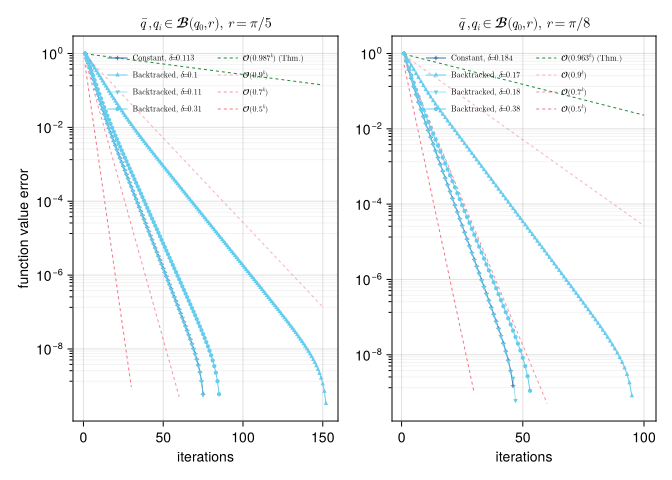
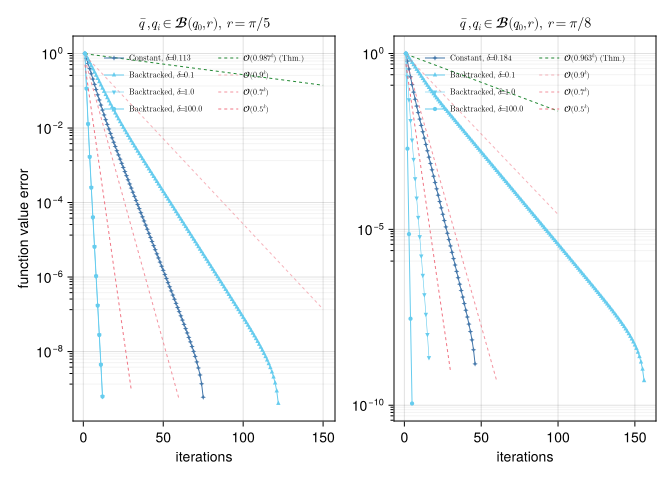
Update md for sphere

diff --git a/docs/src/examples/CRPG-Sphere-Example.md b/docs/src/examples/CRPG-Sphere-Example.md
@@ -126,31 +126,20 @@ function get_const_stepsize(radius, τ)
     vals = [min(get_λ_δ(α1, α2, αg, δ),get_ζ_δ(δ)/Lg) for δ in 0.0:0.001:0.4]
     λ_const, max_idx = findmax(vals)
     return λ_const, δ_grid[max_idx]
-end 
-#
-function get_initial_stepsize(radius, τ, δ = 1e-8)
-    # α1 ≤ h(p) ≤ α2 ∀p ∈ B(anchor, radius)
-    α1 = 0.0
-    α2 = τ * 2 * radius
-    # ||grad_g(p)|| ≤ αg ∀p ∈ B(anchor, radius)
-    αg = 2 * radius 
-    # Compute s for backtracking: we need s < λ_δ
-    s = get_λ_δ(α1, α2, αg, δ)
-    return s 
 end
 ```
 
-    get_initial_stepsize (generic function with 2 methods)
+    get_const_stepsize (generic function with 1 method)
 
 Since the stepsizes are independent of the dimension, we define them here, in conjunction with the parameter $\delta$ used for the backtracking
 
 ``` julia
 λ_const, δ = get_const_stepsize(radius, τ)
-δ_bt = 0.2
-λ_init = get_initial_stepsize(radius, τ, δ_bt)
+δ_bt = 1.0
+λ_init = 10 * λ_const
 ```
 
-    0.1416160732896968
+    1.4758225181520177
 
 Before running the experiments, we initialize data collection functions that we will use later
 
@@ -299,19 +288,19 @@ The first table showcases the algorithm run with a constant stepsize…
 
 | **Dimension** | **Stepsize** |  **Time** | **Iterations** | **Objective** |
 |--------------:|-------------:|----------:|---------------:|--------------:|
-|         100.0 |     0.147582 | 0.0218097 |           57.5 |     0.0775637 |
-|         500.0 |     0.147582 | 0.0991153 |           54.7 |     0.0632621 |
-|        1000.0 |     0.147582 |  0.188338 |           61.8 |     0.0754969 |
-|        5000.0 |     0.147582 |  0.525201 |           43.9 |     0.0618121 |
+|         100.0 |     0.147582 | 0.0231786 |           57.5 |     0.0775637 |
+|         500.0 |     0.147582 |  0.102482 |           54.7 |     0.0632621 |
+|        1000.0 |     0.147582 |  0.196127 |           61.8 |     0.0754969 |
+|        5000.0 |     0.147582 |  0.534626 |           43.9 |     0.0618121 |
 
 … while the second table showcases the algorithm run with a backtracked stepsize
 
 | **Dimension** | **Stepsize** |  **Time** | **Iterations** | **Objective** |
 |--------------:|-------------:|----------:|---------------:|--------------:|
-|         100.0 |     0.141616 | 0.0302608 |           60.2 |     0.0775637 |
-|         500.0 |     0.141616 |  0.129029 |           57.0 |     0.0632621 |
-|        1000.0 |     0.141616 |   0.25233 |           64.7 |     0.0754969 |
-|        5000.0 |     0.141616 |  0.755547 |           45.8 |     0.0618121 |
+|         100.0 |      1.47582 | 0.0130627 |           21.1 |     0.0775637 |
+|         500.0 |      1.47582 | 0.0538948 |           19.9 |     0.0632621 |
+|        1000.0 |      1.47582 |  0.109934 |           22.4 |     0.0754969 |
+|        5000.0 |      1.47582 |  0.335534 |           16.4 |     0.0618121 |
 
 ## Test with different parameters
 
@@ -369,6 +358,9 @@ for radius in radii
     prox = get_prox(q_bar, τ)
     # constant stepsize 
     λ_const, δ_opt = get_const_stepsize(radius, τ)
+    δs_bt = [0.1, 1.0, 100.0]
+    λ_init = 10*λ_const
+
     rec_const = proximal_gradient_method(S, f, g, grad_g, start;
         prox_nonsmooth=prox, 
         stepsize=ConstantLength(λ_const),
@@ -386,10 +378,8 @@ for radius in radii
     results[(radius, :CONST, δ_opt)] = err_const
 
     # Backtracking
-    δs_bt = [round(δ_opt, digits=2) - 0.01, round(δ_opt, digits=2), round(δ_opt, digits=2) + 0.2]
 
     for δ_bt in δs_bt
-        λ_init = get_initial_stepsize(radius, τ, δ_bt)
         rec_bt = proximal_gradient_method(S, f, g, grad_g, start;
             prox_nonsmooth=prox, 
             stepsize=ProximalGradientMethodBacktracking(;
@@ -439,7 +429,7 @@ function plot_sphere_results(
             df_const  = df_02_const,
             df_bt     = df_02_bt,
             c_delta   = "delta0.113",
-            bt_deltas = ("delta0.1",  "delta0.11", "delta0.31"),
+            bt_deltas = ("delta0.1",  "delta1.0", "delta100.0"),
             thm_rate  = 0.987,
             thm_xend  = 150,
             ref_xends = (150, 60, 30),
@@ -449,7 +439,7 @@ function plot_sphere_results(
             df_const  = df_0125_const,
             df_bt     = df_0125_bt,
             c_delta   = "delta0.184",
-            bt_deltas = ("delta0.17", "delta0.18", "delta0.38"),
+            bt_deltas = ("delta0.1", "delta1.0", "delta100.0"),
             thm_rate  = 0.963,
             thm_xend  = 100,
             ref_xends = (100, 60, 30),
@@ -530,36 +520,38 @@ This tutorial is cached. It was last run on the following package versions.
     Status `~/Repositories/Julia/ManoptExamples.jl/examples/Project.toml`
       [6e4b80f9] BenchmarkTools v1.8.0
       [336ed68f] CSV v0.10.16
-    ⌃ [13f3f980] CairoMakie v0.15.11
+      [13f3f980] CairoMakie v0.15.13
       [0ca39b1e] Chairmarks v1.3.1
       [35d6a980] ColorSchemes v3.31.0
       [5ae59095] Colors v0.13.1
       [a93c6f00] DataFrames v1.8.2
-    ⌃ [31c24e10] Distributions v0.25.126
-    ⌃ [e9467ef8] GLMakie v0.13.11
+      [31c24e10] Distributions v0.25.129
+      [e9467ef8] GLMakie v0.13.13
+      [5c1252a2] GeometryBasics v0.5.11
       [4d00f742] GeometryTypes v0.8.5
       [7073ff75] IJulia v1.34.4
       [682c06a0] JSON v1.6.1
       [8ac3fa9e] LRUCache v1.6.2
       [b964fa9f] LaTeXStrings v1.4.0
       [d3d80556] LineSearches v7.7.1
-    ⌅ [ee78f7c6] Makie v0.24.11
+      [ee78f7c6] Makie v0.24.13
+      [7351309b] ManifoldAsymptote v0.1.0
       [af67fdf4] ManifoldDiff v0.4.5
-    ⌃ [1cead3c2] Manifolds v0.11.27
-    ⌃ [3362f125] ManifoldsBase v2.4.0
-    ⌃ [0fc0a36d] Manopt v0.5.39
-      [5b8d5e80] ManoptExamples v0.1.18 `..`
+      [9d80ff41] ManifoldMakie v0.1.2
+      [1cead3c2] Manifolds v0.11.28
+      [3362f125] ManifoldsBase v2.5.0
+      [0fc0a36d] Manopt v0.6.2
+      [5b8d5e80] ManoptExamples v0.1.20 `..`
       [51fcb6bd] NamedColors v0.2.3
       [6fe1bfb0] OffsetArrays v1.17.0
       [91a5bcdd] Plots v1.41.6
-    ⌃ [08abe8d2] PrettyTables v3.3.2
+      [08abe8d2] PrettyTables v3.4.2
       [6099a3de] PythonCall v0.9.35
       [f468eda6] QuadraticModels v0.9.16
-    ⌃ [731186ca] RecursiveArrayTools v4.3.1
+      [731186ca] RecursiveArrayTools v4.3.4
       [1e40b3f8] RipQP v0.7.0
-    Info Packages marked with ⌃ and ⌅ have new versions available. Those with ⌃ may be upgradable, but those with ⌅ are restricted by compatibility constraints from upgrading. To see why use `status --outdated`
 
-This tutorial was last rendered July 10, 2026, 12:3:36.
+This tutorial was last rendered July 20, 2026, 15:28:56.
 
 ## Literature
 
